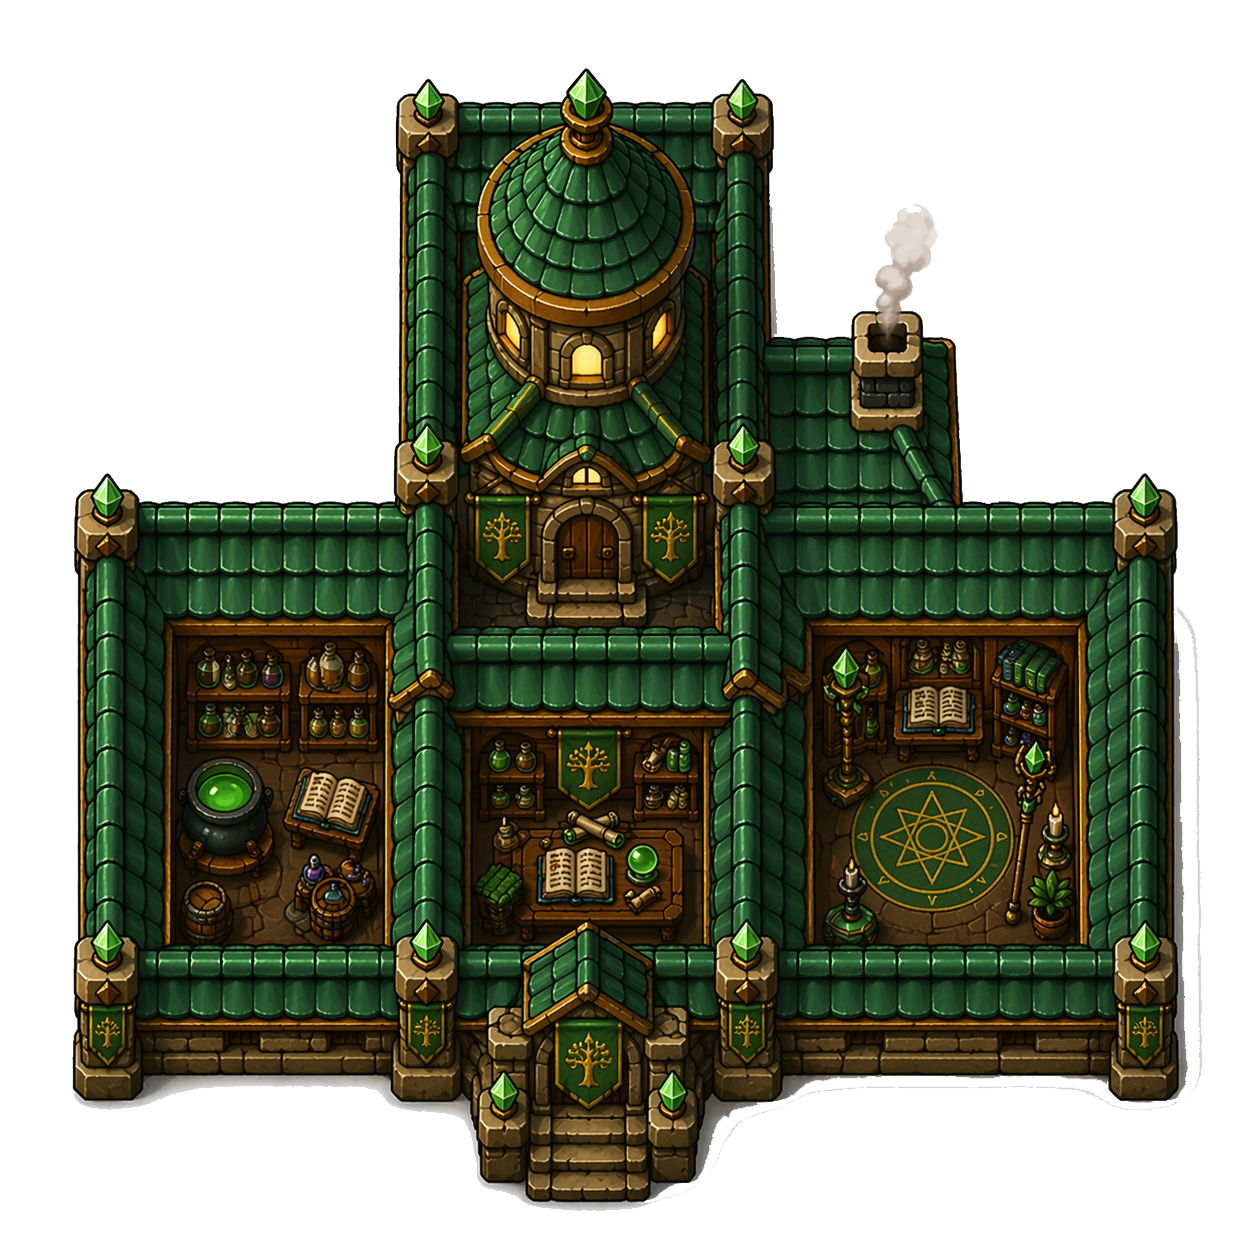
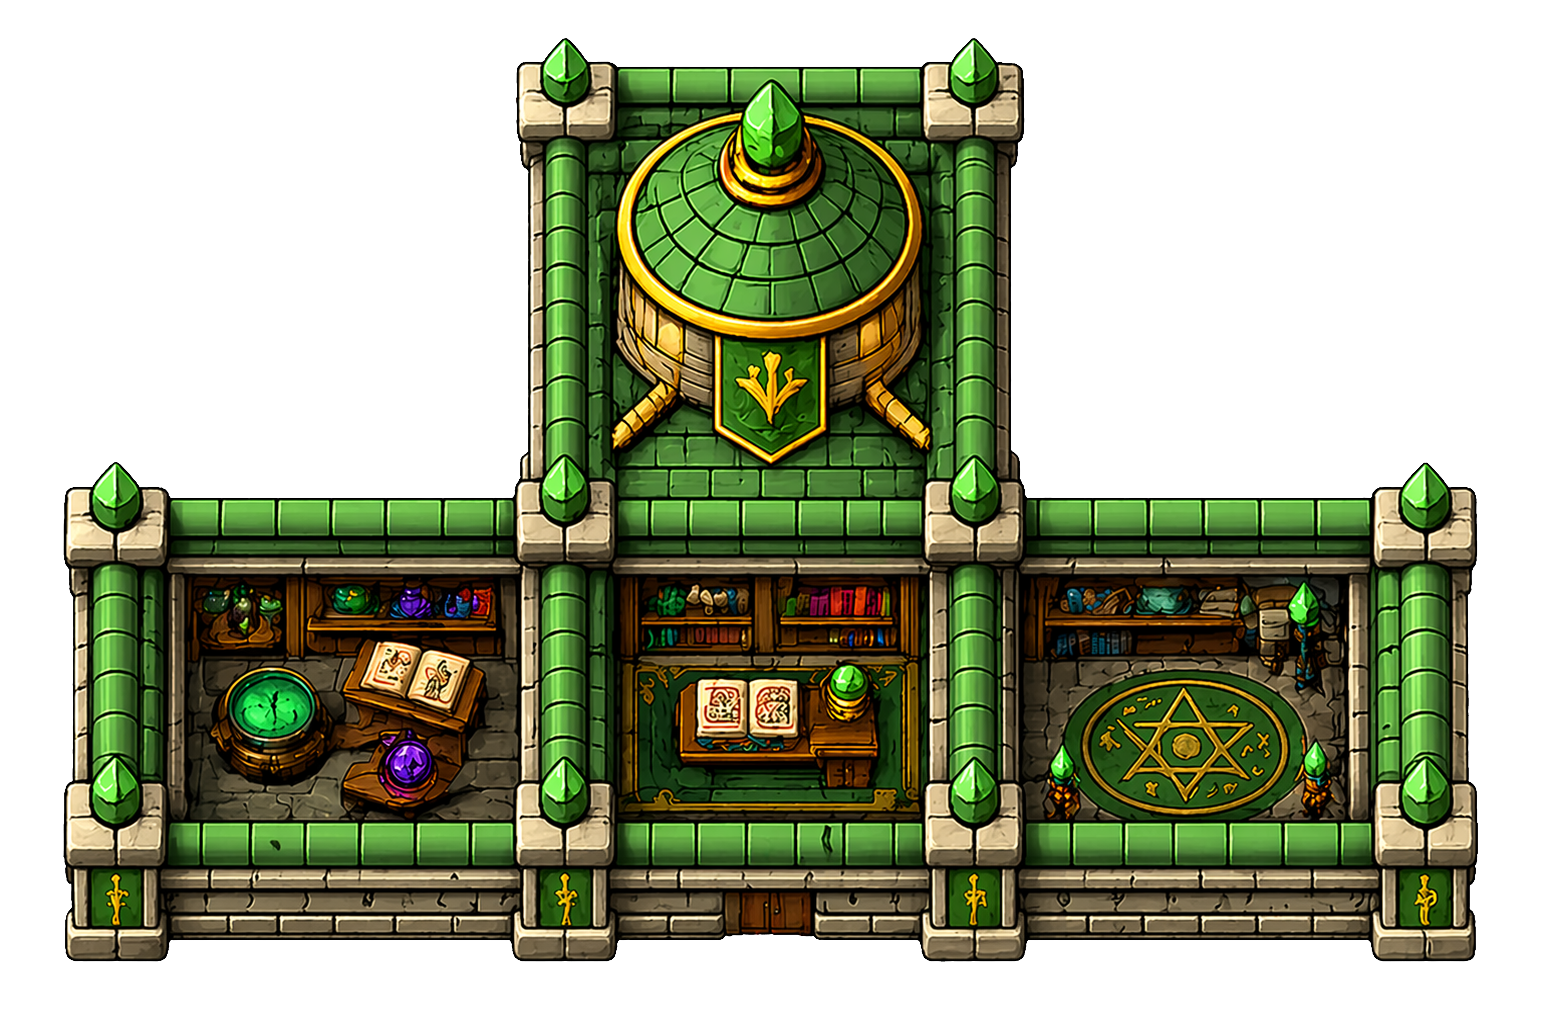
BD: replace mages_2 + mages_3 with user's new artwork
Кэш ?v=3 → ?v=4 для всех building-спрайтов.
Старые версии сохранены в originals/*_old.png.

diff --git a/games/bd/game.js b/games/bd/game.js
@@ -271,7 +271,7 @@ function loadBuildingImage(type, level, src) {
 }
 for (const t of ['barracks', 'archers', 'well', 'mages']) {
   for (let lvl = 1; lvl <= 3; lvl++) {
-    loadBuildingImage(t, lvl, 'img/' + t + '_' + lvl + '.png?v=3');
+    loadBuildingImage(t, lvl, 'img/' + t + '_' + lvl + '.png?v=4');
   }
 }
 function getBuildingSprite(type, level) {

diff --git a/games/bd/index.html b/games/bd/index.html
@@ -61,6 +61,6 @@
     </div>
 
   </div>
-  <script src="game.js?v=2026042228"></script>
+  <script src="game.js?v=2026042229"></script>
 </body>
 </html>
